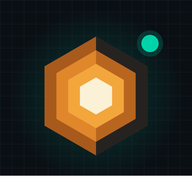
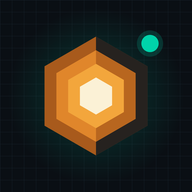
Icône PWA : suppression de la bande blanche en bas (rendu SVG en bloc), version ?v=2 pour forcer le rechargement sur iPhone

Changed region(s): [[0.0, 0.9062, 1.0, 1.0]]

diff --git a/app/index.html b/app/index.html
@@ -7,7 +7,7 @@
     <title>myHexa</title>
     <!-- application installable (PWA) : manifeste, icônes, plein écran sur iPhone -->
     <link rel="manifest" href="/manifest.webmanifest" />
-    <link rel="apple-touch-icon" href="/pwa/icon-180.png" />
+    <link rel="apple-touch-icon" href="/pwa/icon-180.png?v=2" />
     <meta name="apple-mobile-web-app-capable" content="yes" />
     <meta name="mobile-web-app-capable" content="yes" />
     <meta name="apple-mobile-web-app-title" content="myHexa" />
